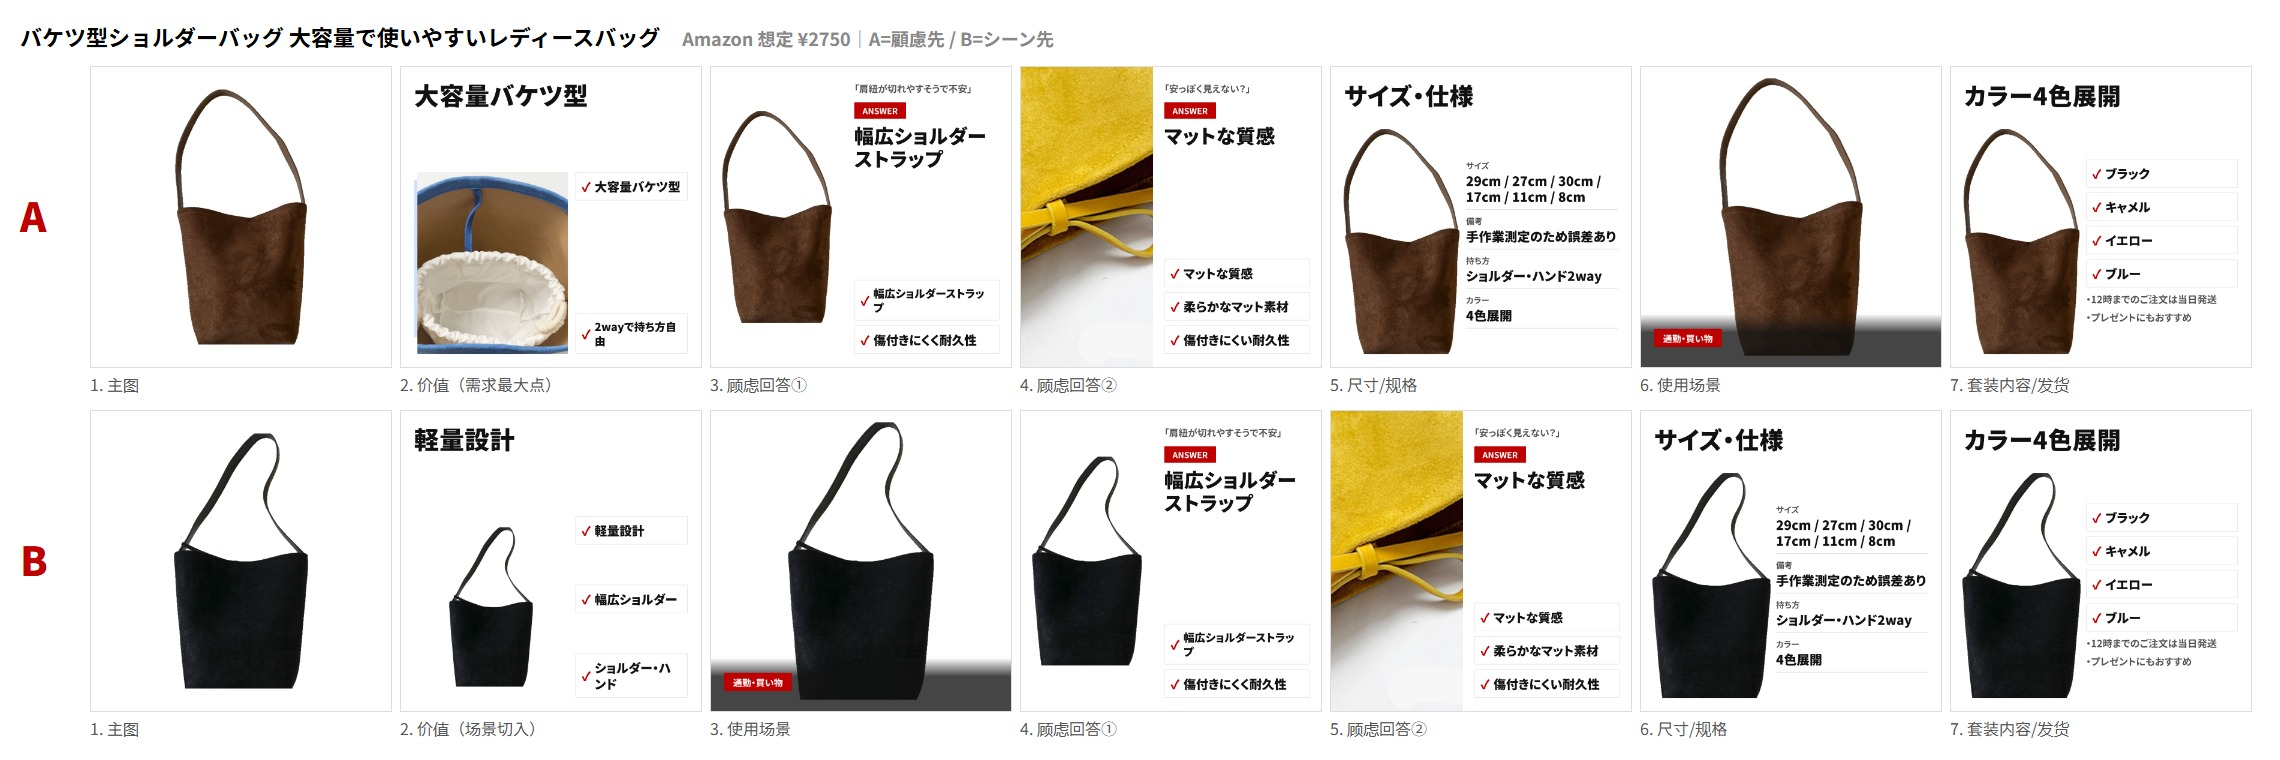
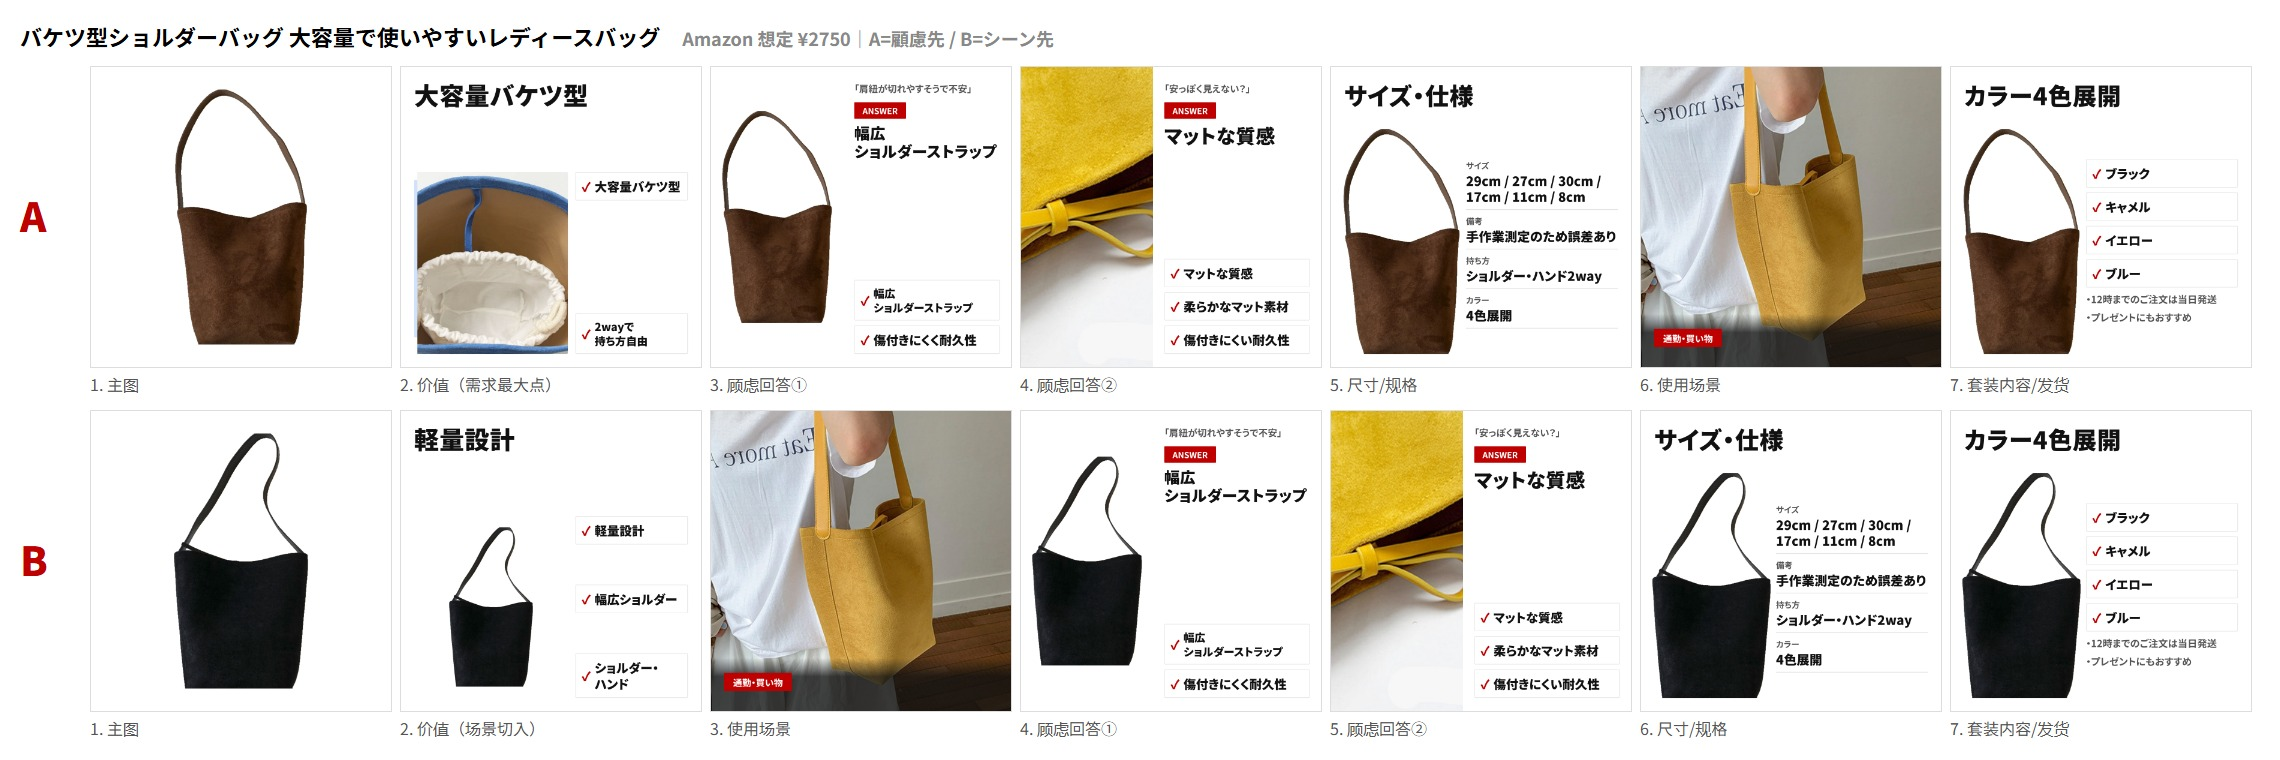
amazon-visual: 场景页用真实场景图（裁/盖批发商文字），日文按文节断行+自动缩字；3 件重新换图
Claude-Session: https://claude.ai/code/session_019DupZeGVcWx6WEyY4mWnHy

diff --git a/tools/product-images/imgtool.py b/tools/product-images/imgtool.py
@@ -3,6 +3,7 @@
   python imgtool.py thumbs  jobs.json   # [{src,out,max}] 縮小 JPEG（ビジョンモデル用）
   python imgtool.py crop    jobs.json   # [{src,out,box:[x0,y0,x1,y1] (0-1 の割合)}]
   python imgtool.py cutout  jobs.json   # [{src,out,box?}] 背景除去 → 透過 PNG（bbox で自動トリミング）
+  python imgtool.py scenefix jobs.json   # [{src,out,boxes:[[x0,y0,x1,y1]],band:[y0,y1],xband:[x0,x1]}] 文字の帯（上下左右）を切り落とし、残りの文字領域は周囲の平均色で塗る（シーン写真用）
   python imgtool.py whitecheck jobs.json # [{src,out}] Amazon 主图の点検（サイズ・形式・外周の純白率・商品の占有率）→ out に JSON
 """
 import json, sys, time
@@ -40,6 +41,16 @@ def whitecheck(jobs):
         ratio = max((bb[2] - bb[0]) / W, (bb[3] - bb[1]) / H) if bb else 0
         json.dump({'format': fmt, 'mode': mode, 'icc': icc, 'w': W, 'h': H, 'borderPureWhite': round(pure, 4), 'bbox': bb, 'longSideRatio': round(ratio, 3)}, open(j['out'], 'w'))
 
+def scenefix(jobs):
+    from PIL import ImageDraw, ImageStat
+    for j in jobs:
+        im = load(j['src']).convert('RGB'); W, H = im.size; d = ImageDraw.Draw(im)
+        for x0, y0, x1, y1 in j.get('boxes', []):
+            bx = (int(x0 * W), int(y0 * H), int(x1 * W), int(y1 * H))
+            ring = im.crop((max(0, bx[0] - 8), max(0, bx[1] - 8), min(W, bx[2] + 8), min(H, bx[3] + 8)))
+            d.rectangle(bx, fill=tuple(int(v) for v in ImageStat.Stat(ring).median))
+        y0, y1 = j.get('band', [0, 1]); x0, x1 = j.get('xband', [0, 1]); im.crop((int(x0 * W), int(y0 * H), int(x1 * W), int(y1 * H))).save(j['out'], quality=92)
+
 def cutout(jobs):
     try:  # onnxruntime-gpu 1.31 需要 CUDA 13 运行库（pip 的 onnxruntime-gpu[cuda,cudnn]），必须先 preload 否则静默回退 CPU（7s/张 vs GPU 约 0.5s）
         import onnxruntime as ort; ort.preload_dlls()
@@ -63,5 +74,5 @@ def cutout(jobs):
 if __name__ == '__main__':
     cmd, jobfile = sys.argv[1], sys.argv[2]
     jobs = json.load(open(jobfile, encoding='utf-8'))
-    {'thumbs': thumbs, 'crop': crop, 'cutout': cutout, 'sheet': sheet, 'whitecheck': whitecheck}[cmd](jobs)
+    {'thumbs': thumbs, 'crop': crop, 'cutout': cutout, 'sheet': sheet, 'whitecheck': whitecheck, 'scenefix': scenefix}[cmd](jobs)
     print(json.dumps({'done': len(jobs)}))

diff --git a/docs/amazon-visual/README.md b/docs/amazon-visual/README.md
@@ -73,3 +73,16 @@
 - **ナイロン ミニトート**：商品名和日文站说明写「ナイロン」，但批发商图片上印「CANVAS BAG」，素材可能不一致，上 Amazon 前要问供应商；另外资料里没有缝制/拉链/布料厚度信息，这几条顾虑没法回答（已列入 unanswered）。
 - 副图的「顾虑→回答」和箇条書き都经过 6kpro 二次核对（无出处的说法会被删掉或按 fact 改写），但措辞还是建议人看一遍（例：バケツ型 箇条書き 1 和 4 内容重复）。
 - 竞品评论只有商品页上的上位评论（每件约 8 条），按星级的评论列表要登录，没有用。
+
+## 2026-10-20 第 3 轮修改（バケツ型・3way・肩にやさしい，已重新换图）
+
+- **使用场景页**改用真实场景原图（人物/生活背景），不再用抠图：批发商文字在边上的整条裁掉（上下左右），在中间的用周围颜色的色块盖住，然后让 6kpro 再看一遍有没有剩下的文字；去不干净就换下一张场景原图，都不行就在这里标出来。
+- **日文断行**：按词组断行（Intl.Segmenter 分词后合成文节，文节之间插 `<wbr>`，CSS `word-break:keep-all`），不在单词中间断开；一行放不下的标题/要点自动把字号缩小 2px 一档直到放下。
+- 再次换图时 media-backup 保留第一次的原图（`old` + `localDir: amazon-pick-old`），`pipeline.mjs rollback` 仍回到批发商原图。
+- スマホポシェット、ナイロン：等用户回复，本轮没动（ナイロン 线上仍是上一轮的 A 案）。
+
+| 商品 | 场景页用的原图 |
+|---|---|
+| バケツ型ショルダーバッグ 大容量で使いやすいレディースバッグ | 原图 1：裁掉文字带(y 0.00–1.00 / x 0.00–0.65) |
+| 3way ショルダーバッグ 大容量・軽量で通勤通学に便利な多機能バッグ | 原图 4：裁掉文字带(y 0.33–1.00 / x 0.00–0.78) |
+| 肩にやさしい大容量トートショルダーバッグ おしゃれカジュアル | 原图 4：裁掉文字带(y 0.26–1.00 / x 0.00–1.00) |
